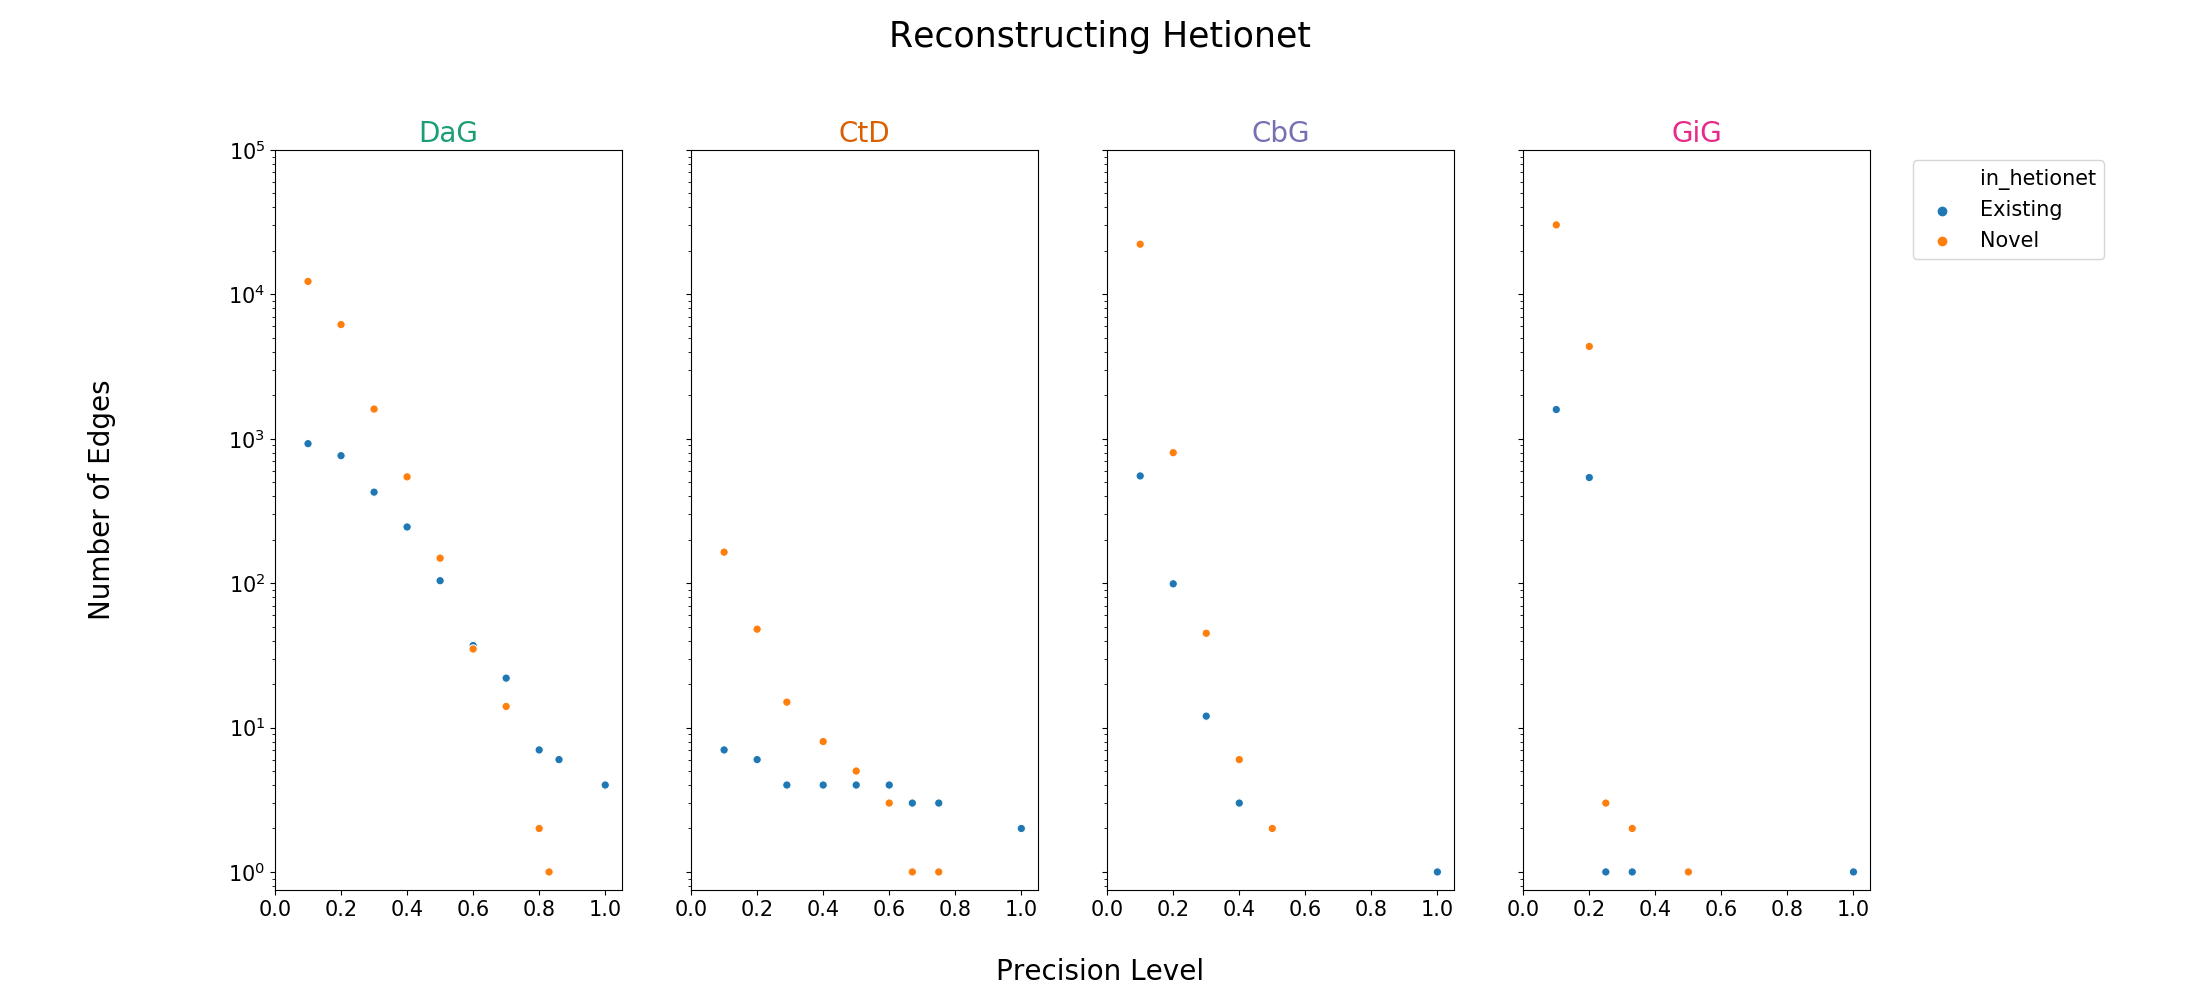
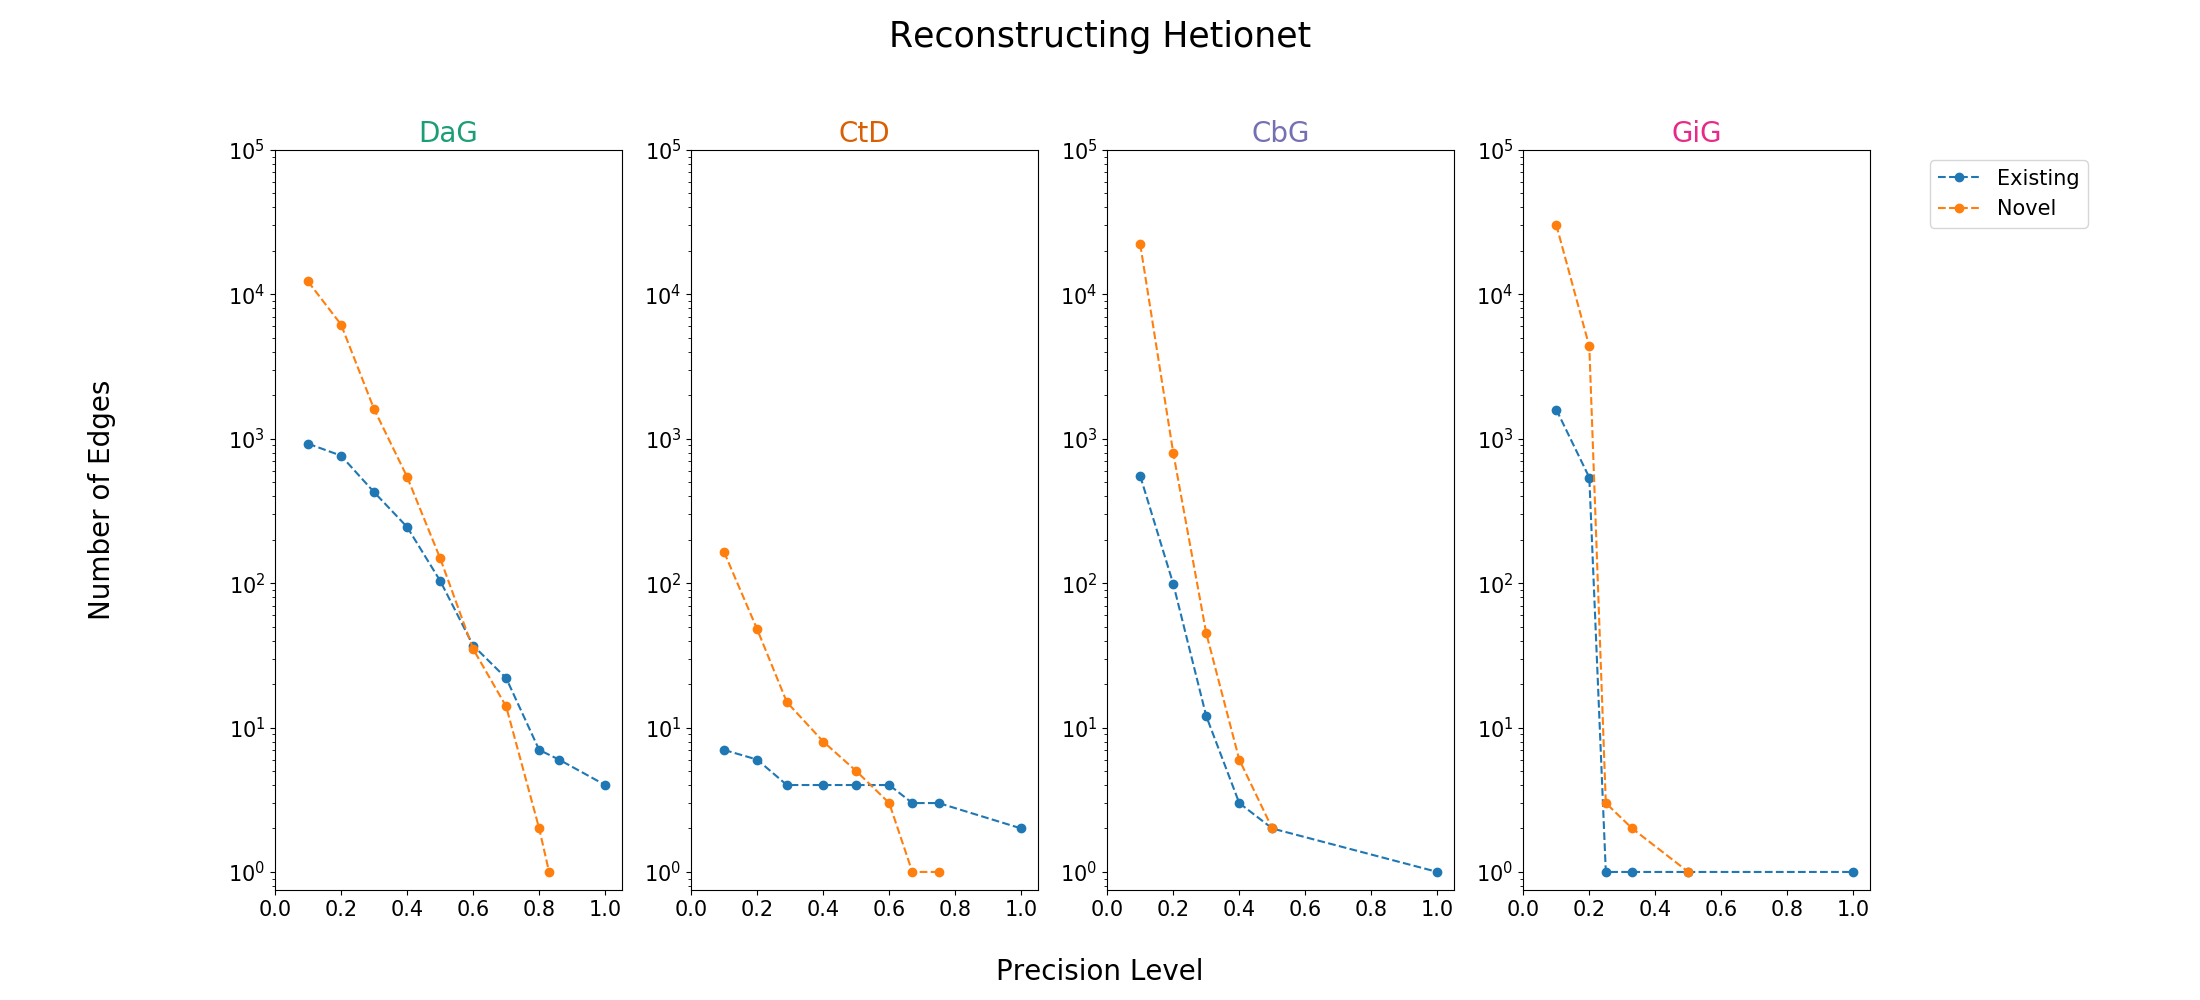
updated figures for paper

diff --git a/figures/edge_prediction_experiment/plot_scripts/edge_prediction.py b/figures/edge_prediction_experiment/plot_scripts/edge_prediction.py
@@ -62,13 +62,14 @@ def plot_performance_graph(
         data - the dataframe tree to plot the large graph
         color_map - the color coded to plot each point on
     """
-    fig, axes = plt.subplots(len(file_tree["DaG"]), len(file_tree), figsize=(22, 10), sharey='row', sharex='row')
-
+    fig, axes = plt.subplots(len(file_tree["DaG"]), len(file_tree), figsize=(22, 10))#, sharey='row')
+    sns.set_context(rc={'lines.markeredgewidth': 0.9})
     for row_ind, col in enumerate(data):
         for row in data[col]:
 
             if "precision" not in data[col][row]:
                 continue
+
             data[col][row][evaluation_set] = (
                 data[col][row][evaluation_set]
                 .groupby([
@@ -82,17 +83,23 @@ def plot_performance_graph(
                 .reset_index(level="in_hetionet")
                 .reset_index(drop=True)
                 .append(data[col][row][evaluation_set].query("precision==1"), sort=True)
+                .reset_index(drop=True)
+                .dropna()
             )
 
             # plot the graph
-            sns.scatterplot(
-                x="precision", y=metric,
-                hue="in_hetionet",
-                data=data[col][row][evaluation_set].sort_values("in_hetionet"),
-                ax=axes[row_ind], ci=None,
+
+            axes[row_ind].plot(
+                data[col][row][evaluation_set].query("in_hetionet=='Existing'")["precision"],
+                data[col][row][evaluation_set].query("in_hetionet=='Existing'")[metric],
+                linestyle='--', marker='o', label="Existing"
             )
 
-            # print(data[col][row][evaluation_set])
+            axes[row_ind].plot(
+                data[col][row][evaluation_set].query("in_hetionet=='Novel'")["precision"],
+                data[col][row][evaluation_set].query("in_hetionet=='Novel'")[metric],
+                linestyle='--', marker='o', label="Novel"
+            )
 
             # remove x axis labels
             axes[row_ind].set_xlabel('')
@@ -102,7 +109,6 @@ def plot_performance_graph(
             axes[row_ind].set_ylim([10**(-1/8), 10e4])
             axes[row_ind].set_xlim([0, 1.05])
             axes[row_ind].set_ylabel("")
-            axes[row_ind].get_legend().remove()
 
     # Change the font for each element of the graph
     for item in axes.flat:

diff --git a/figures/literature_models/plot_scripts/coco_score_comparison.py b/figures/literature_models/plot_scripts/coco_score_comparison.py
@@ -146,7 +146,7 @@ def plot_performance_graph(
     sns.barplot(x="Edge_Type", y="AUPR", hue="Models", data=performance_df, ax=axes[1])
     axes[0].set_xlabel('')
     axes[1].set_xlabel('')
-    axes[0].set_ylim([0, 1])
+    axes[0].set_ylim([0.5, 1])
     axes[1].set_ylim([0, 1])
     axes[0].get_legend().remove()
     axes[1].get_legend().remove()
